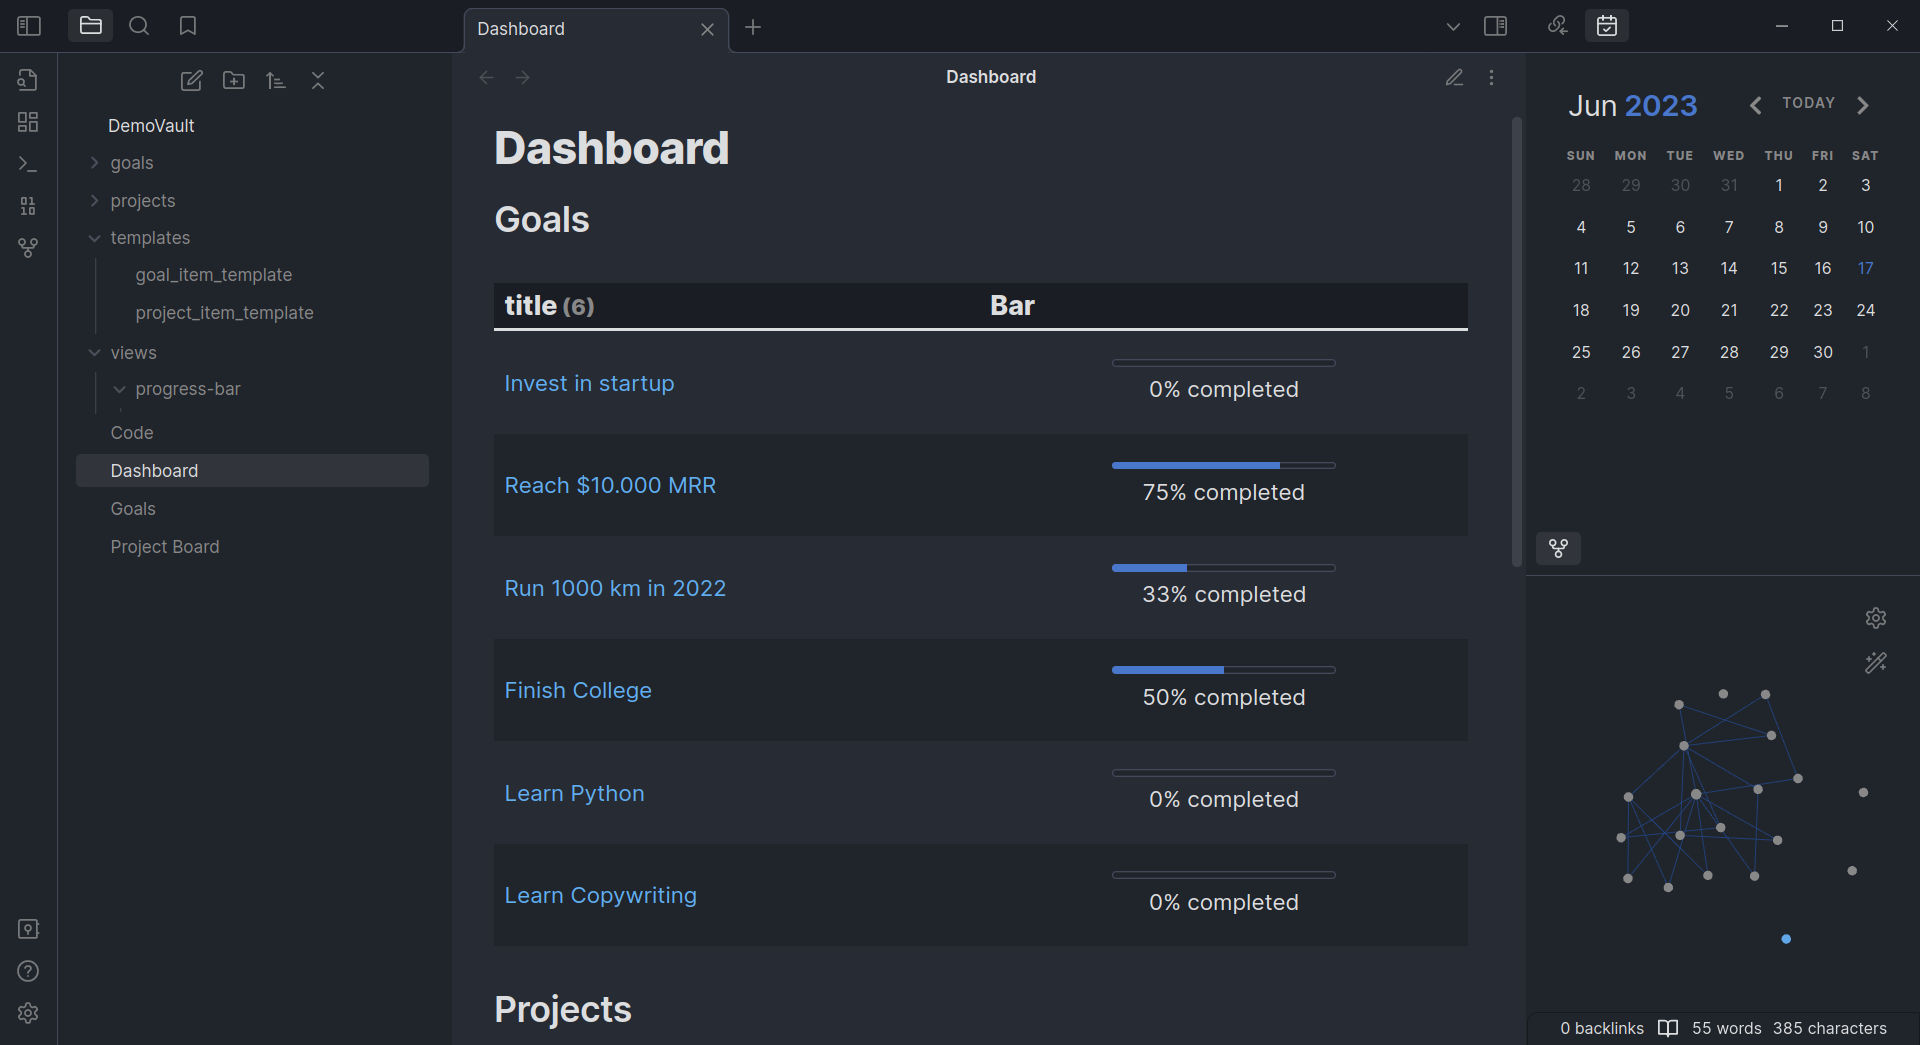
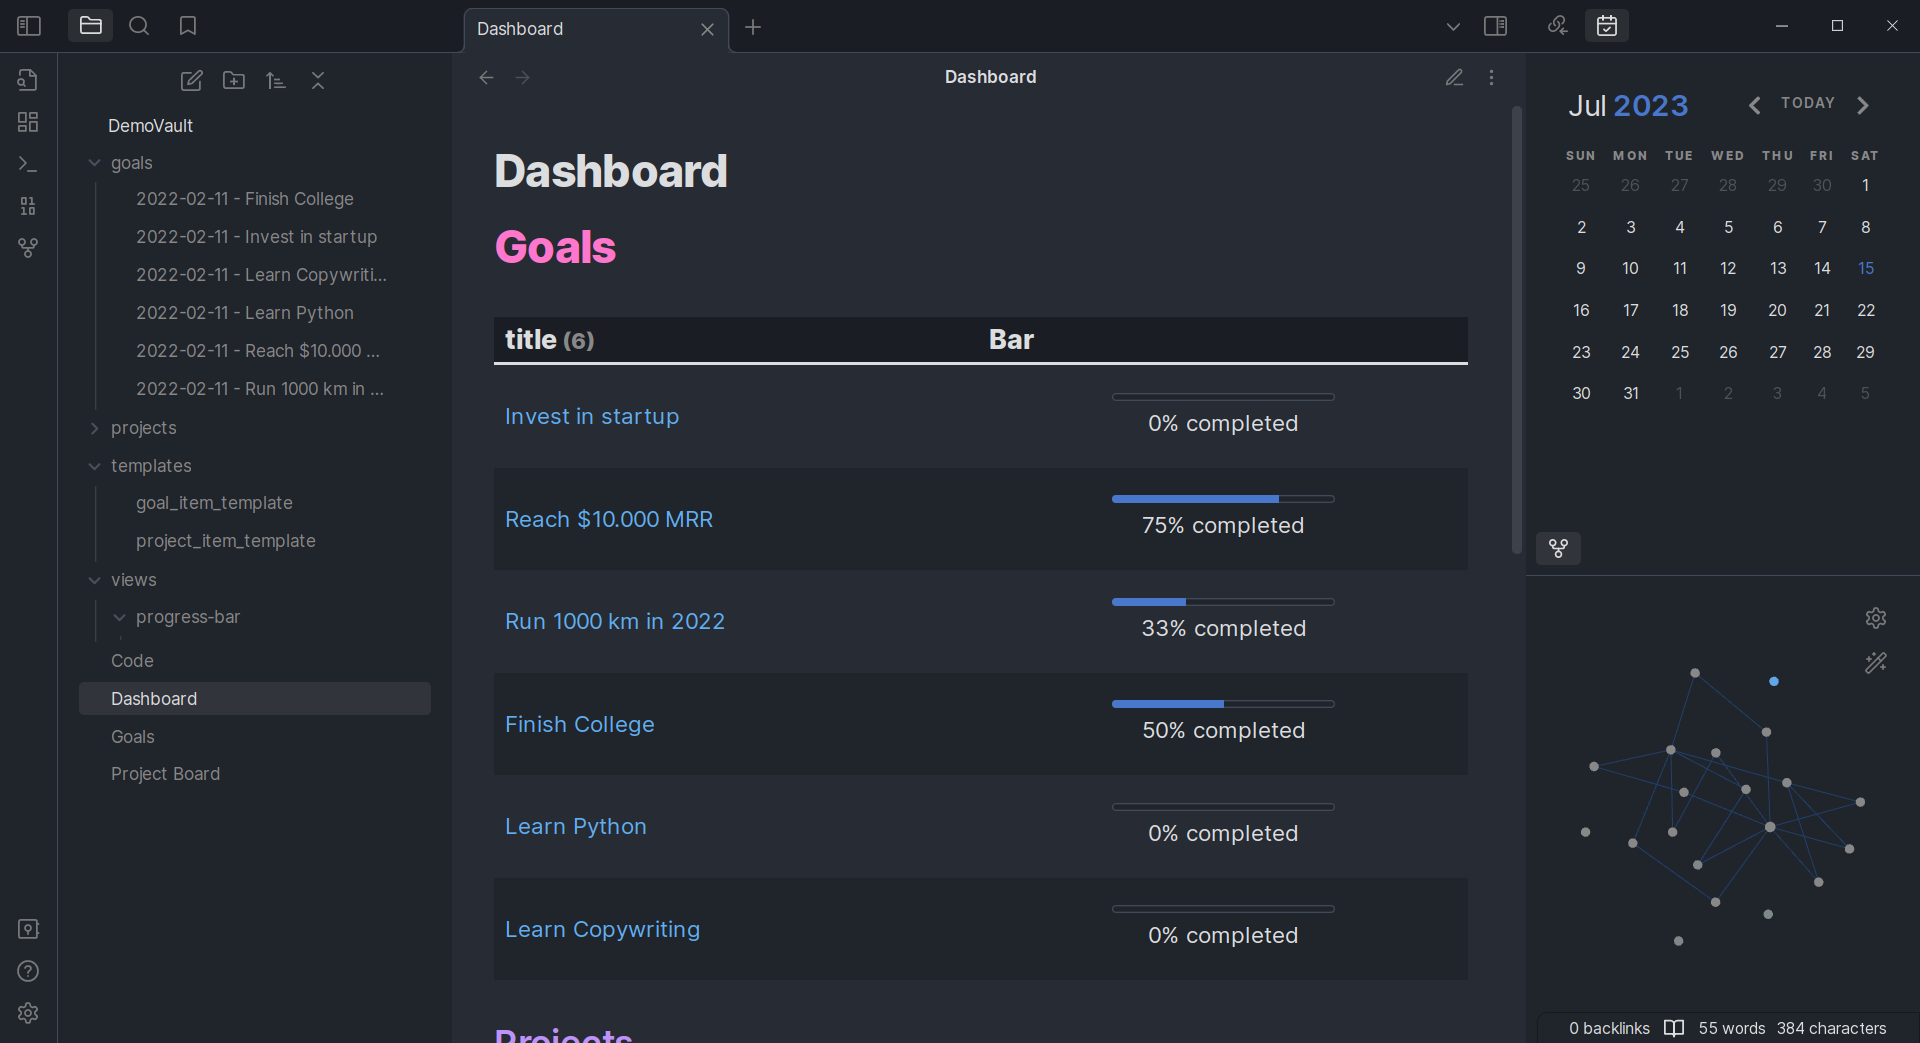
New Highlight colors

diff --git a/theme.css b/theme.css
@@ -38,6 +38,7 @@
   --blue: #61afef;
   --yellow: #e5c07b;
   --pink: #ff79c6;
+  --pink-two:#ff77cc;
   --green: #50fa7b;
   --comment: #6272a4;
   --cyan: #8be9fd;
@@ -615,6 +616,23 @@ body
   color: var(--interactive-accent);
 }
 
-.markdown-preview-view table tr:nth-child(even) {
-    background-color: #20242b;
+.markdown-preview-view table tr:nth-child(even), .markdown-source-view table tr:nth-child(even) {
+  background-color: #20242b;
 }
+
+/* Header Colors */
+.cm-header-1 { color: var(--pink-two) !important; } /* Header 1 */
+.cm-header-2 { color: var(--purple-code) !important; } /* Header 2 */
+.cm-header-3 { color: var(--green) !important; } /* Header 3 */
+.cm-header-4 { color: var(--yellow-code) !important; } /* Header 4 */
+.cm-header-5 { color: var(--cyan) !important; } /* Header 5 */
+.cm-header-6 { color: var(--yellow) !important; } /* Header 6 */
+
+.markdown-preview-view h1 { color: var(--pink-two) !important; } /* Header 1 */
+.markdown-preview-view h2 { color: var(--purple-code) !important; } /* Header 2 */
+.markdown-preview-view h3 { color: var(--green) !important; } /* Header 3 */
+.markdown-preview-view h4 { color: var(--yellow-code) !important; } /* Header 4 */
+.markdown-preview-view h5 { color: var(--cyan) !important; } /* Header 5 */
+.markdown-preview-view h6 { color: var(--yellow) !important; } /* Header 6 */
+
+
